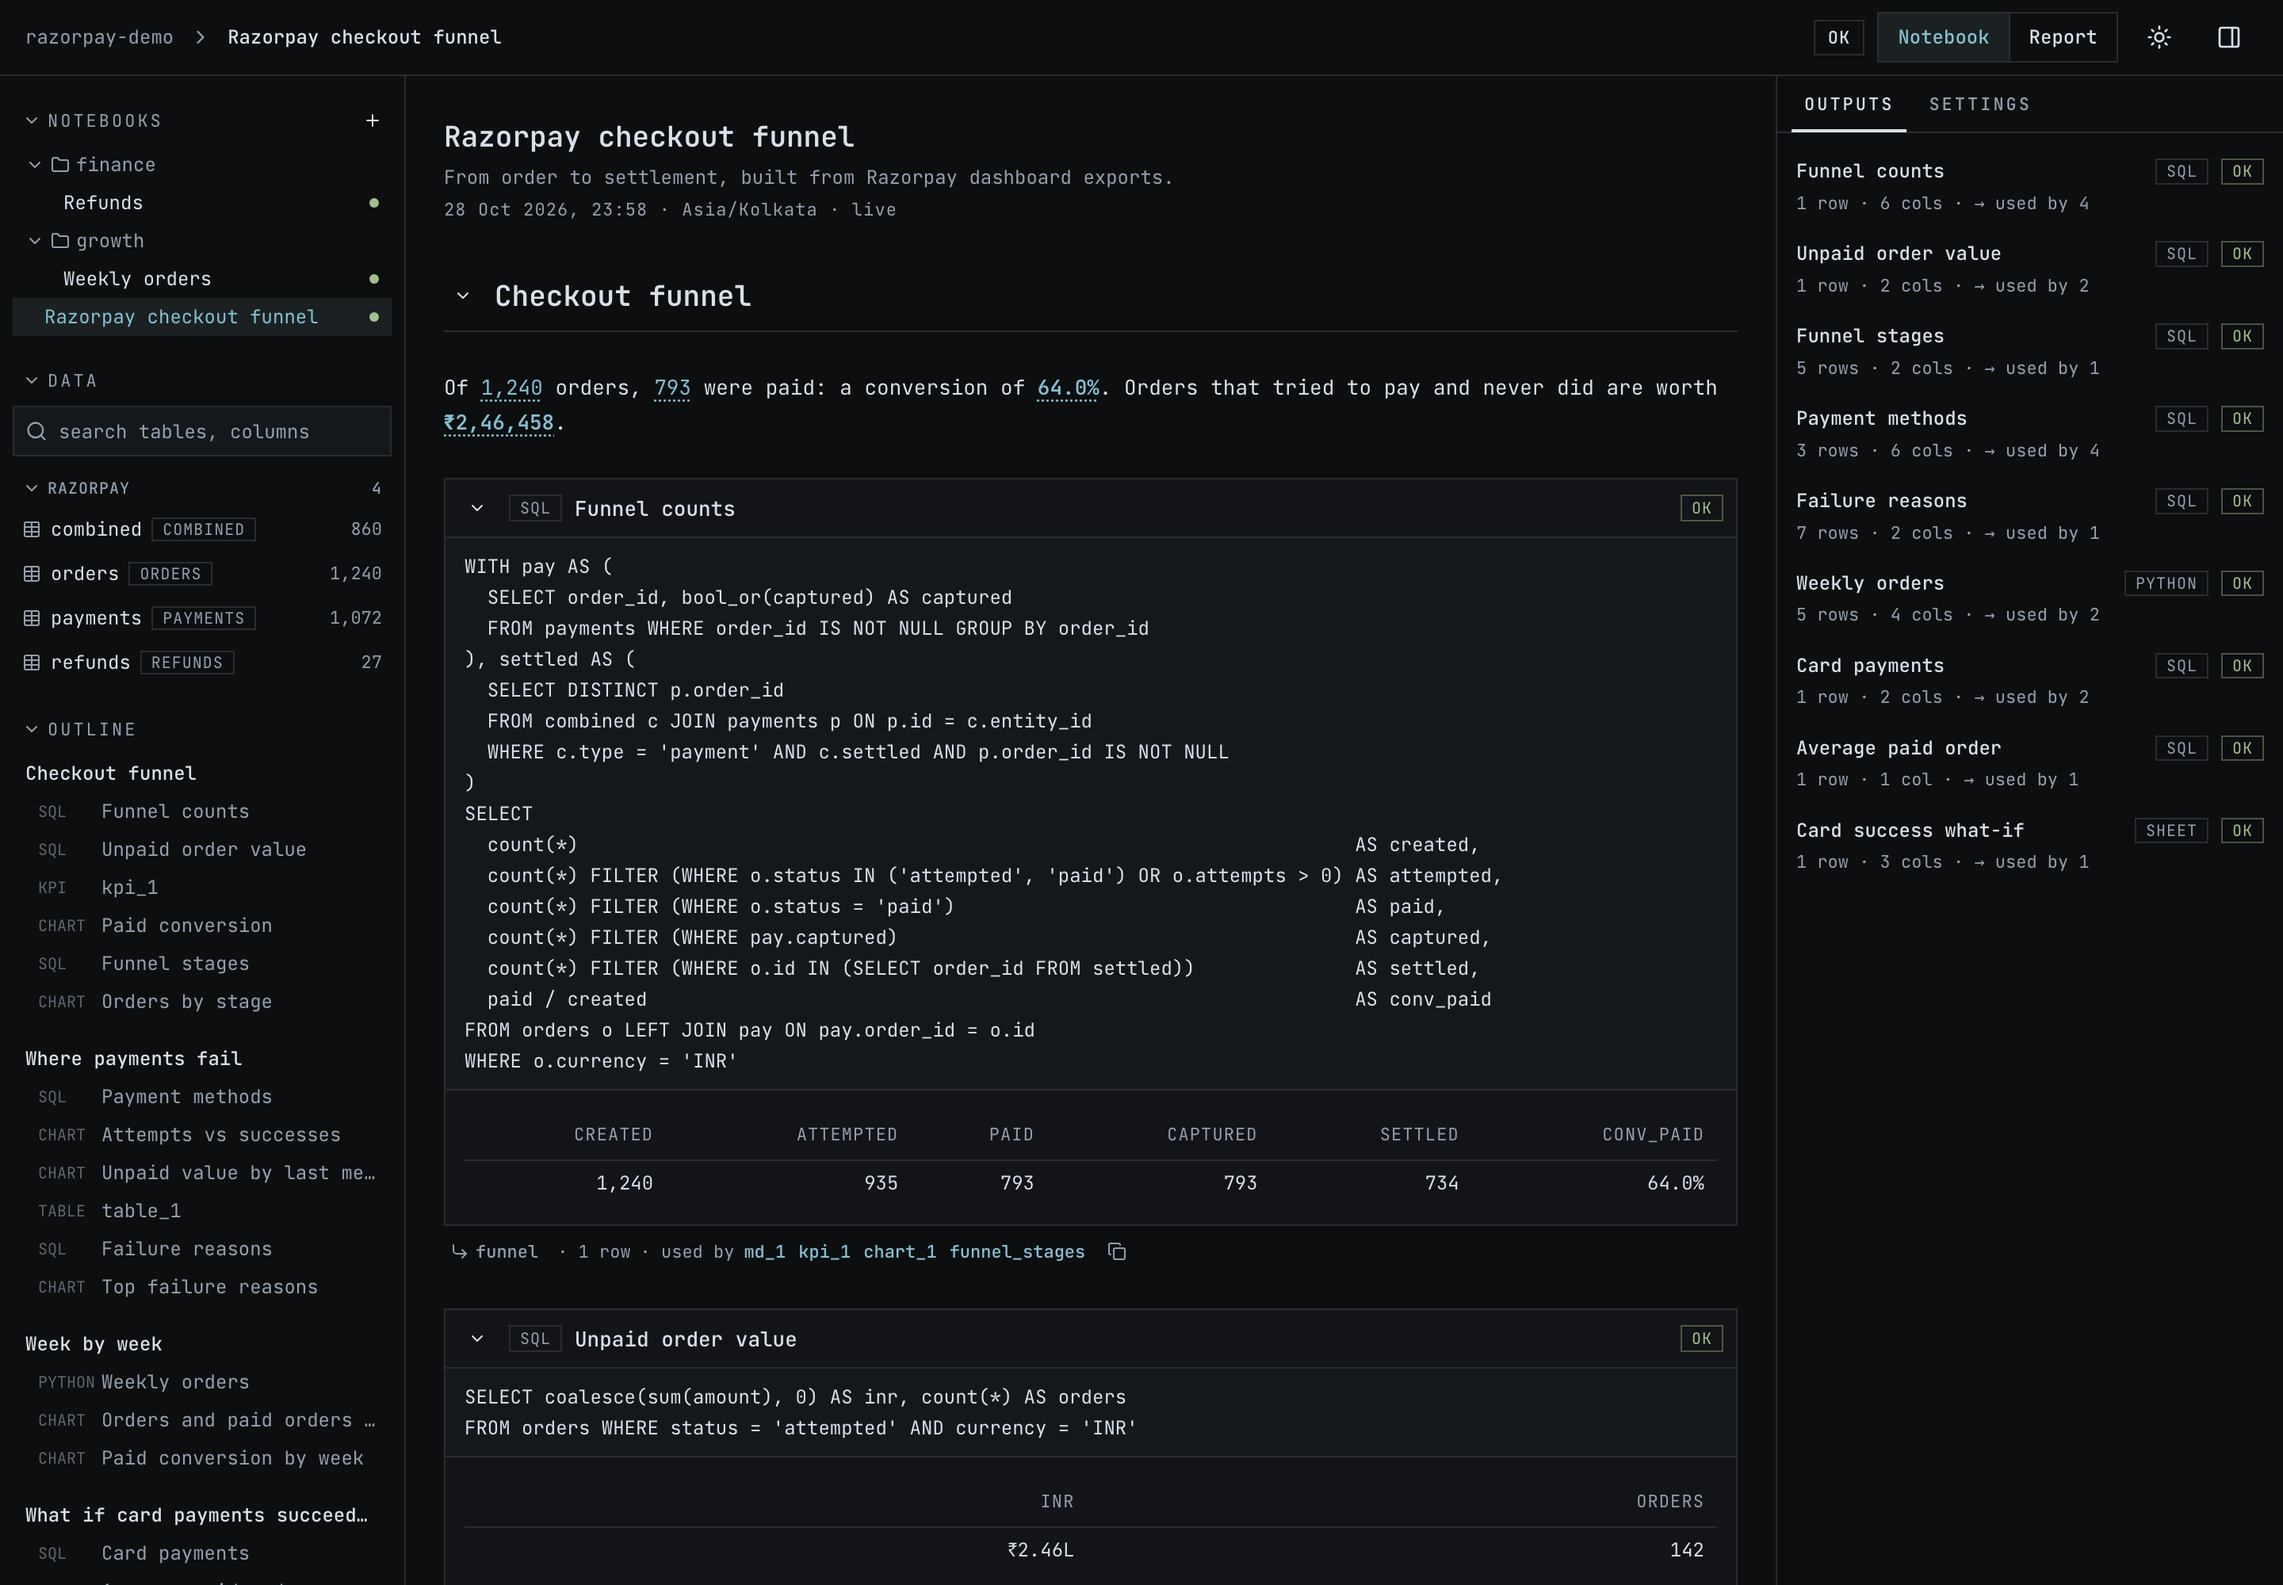
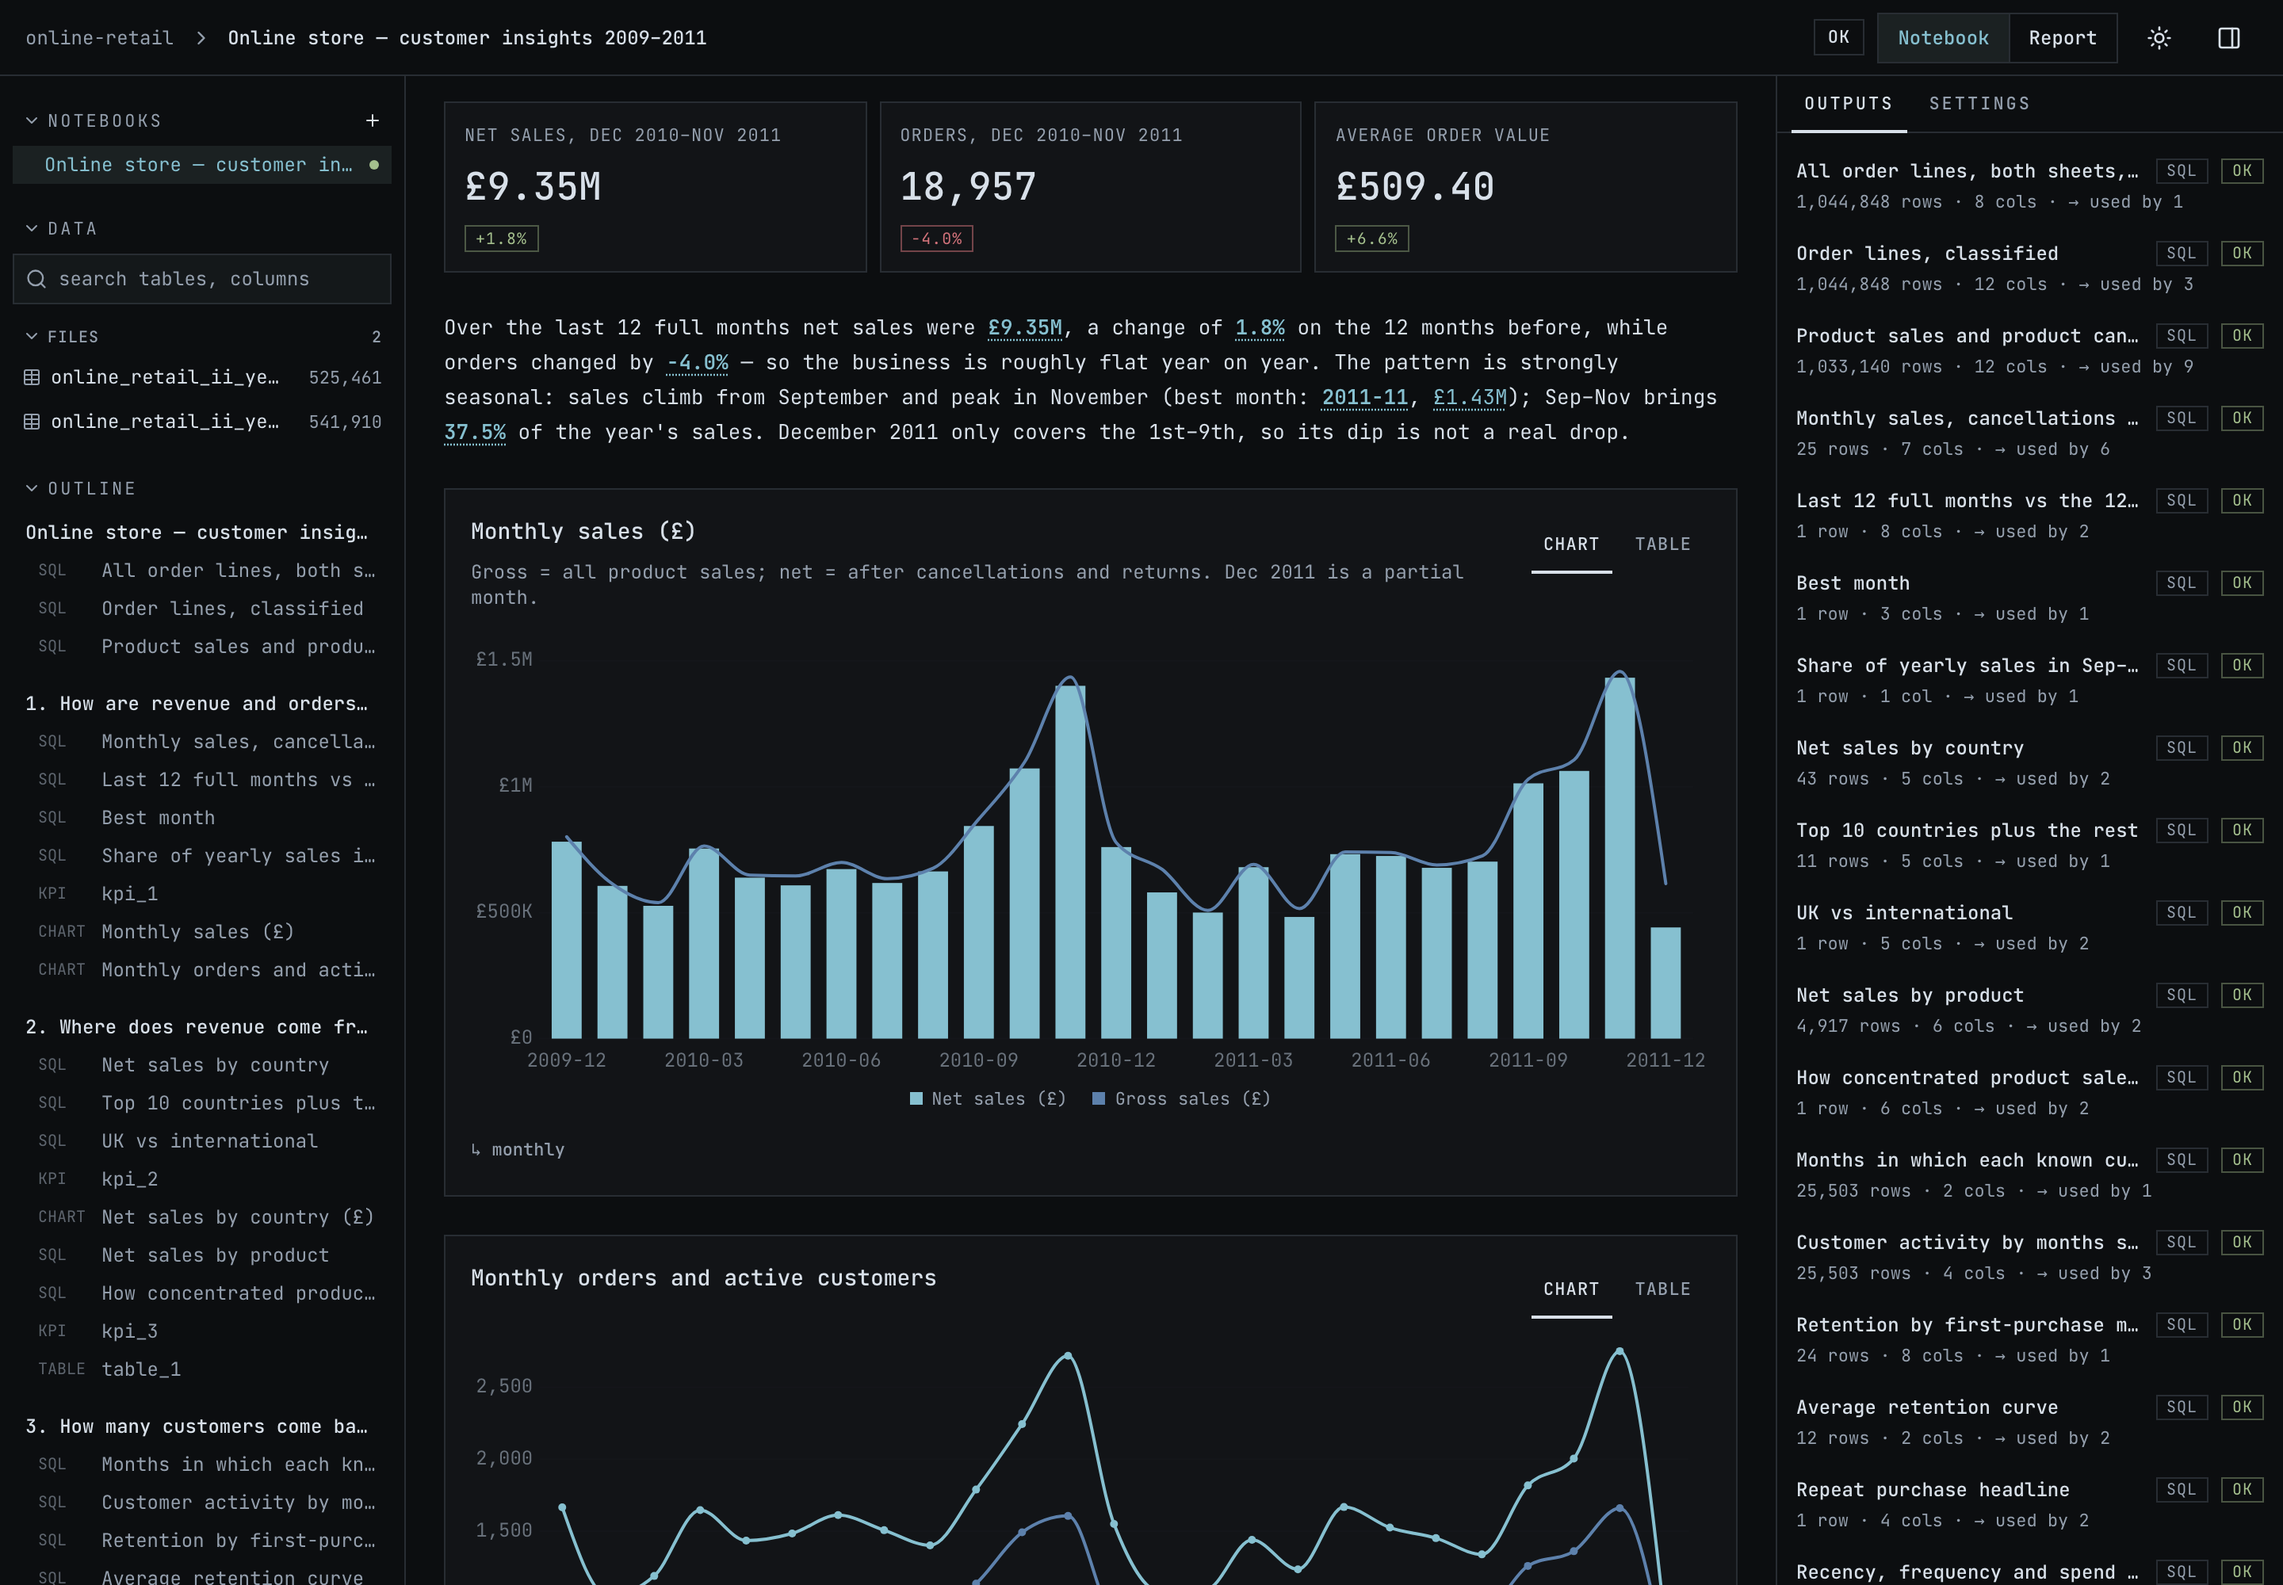
README: notebook-view screenshot from the online-retail example; drop report-view screenshot

diff --git a/README.md b/README.md
@@ -2,13 +2,12 @@
 
 Agent-native data notebook. You ask Claude Code a question about your data files (CSV, Excel, JSON, SQLite, Parquet). It answers inside a notebook of SQL / Python / `.xlsx`-model blocks run on DuckDB. Every number in the answer traces back to the block that computed it, and you can check it, comment on it, and rerun it on new data.
 
-| Notebook view: blocks, queries, results, data browser | Report view: the same notebook as a shareable report |
-|---|---|
-| ![notebook view](docs/notebook-view.png) | ![report view](docs/report-view.png) |
+![notebook view](docs/notebook-view.png)
+*Notebook view of `examples/online-retail/`: a customer-insights notebook Claude Code built from the UCI Online Retail II data. Every £ figure links to the block that computed it.*
 
 ![tracebook demo](docs/tracebook_demo.gif)
 
-Full-resolution video: [docs/tracebook_demo.mp4](docs/tracebook_demo.mp4). The screenshots are the example in `examples/razorpay-demo/` (Razorpay checkout funnel from dashboard exports).
+Full-resolution video: [docs/tracebook_demo.mp4](docs/tracebook_demo.mp4). The video shows `examples/razorpay-demo/` (Razorpay checkout funnel from dashboard exports).
 
 ## Install
 ```bash
